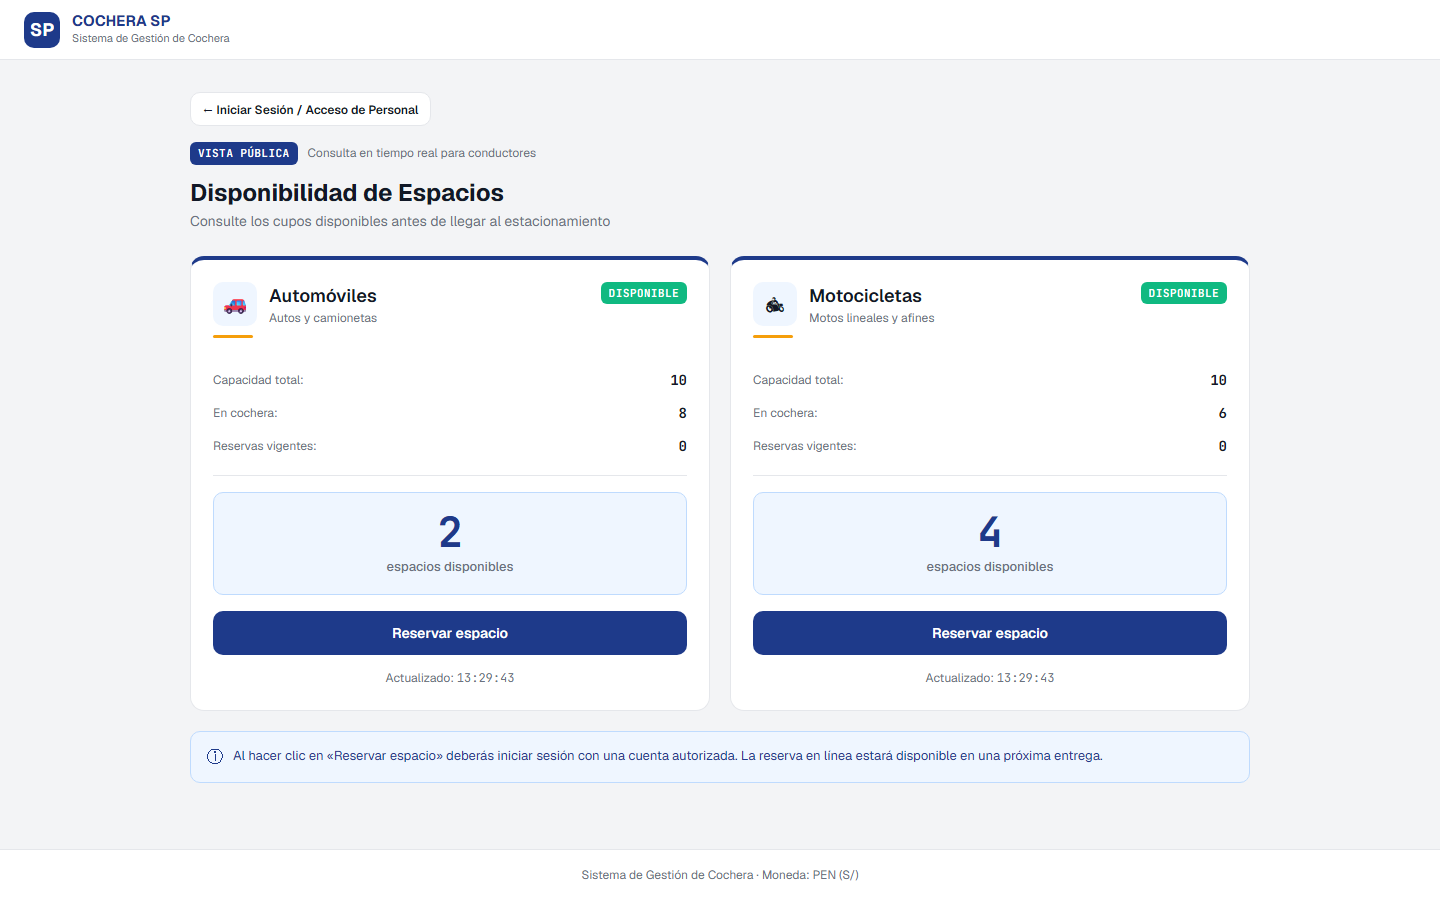
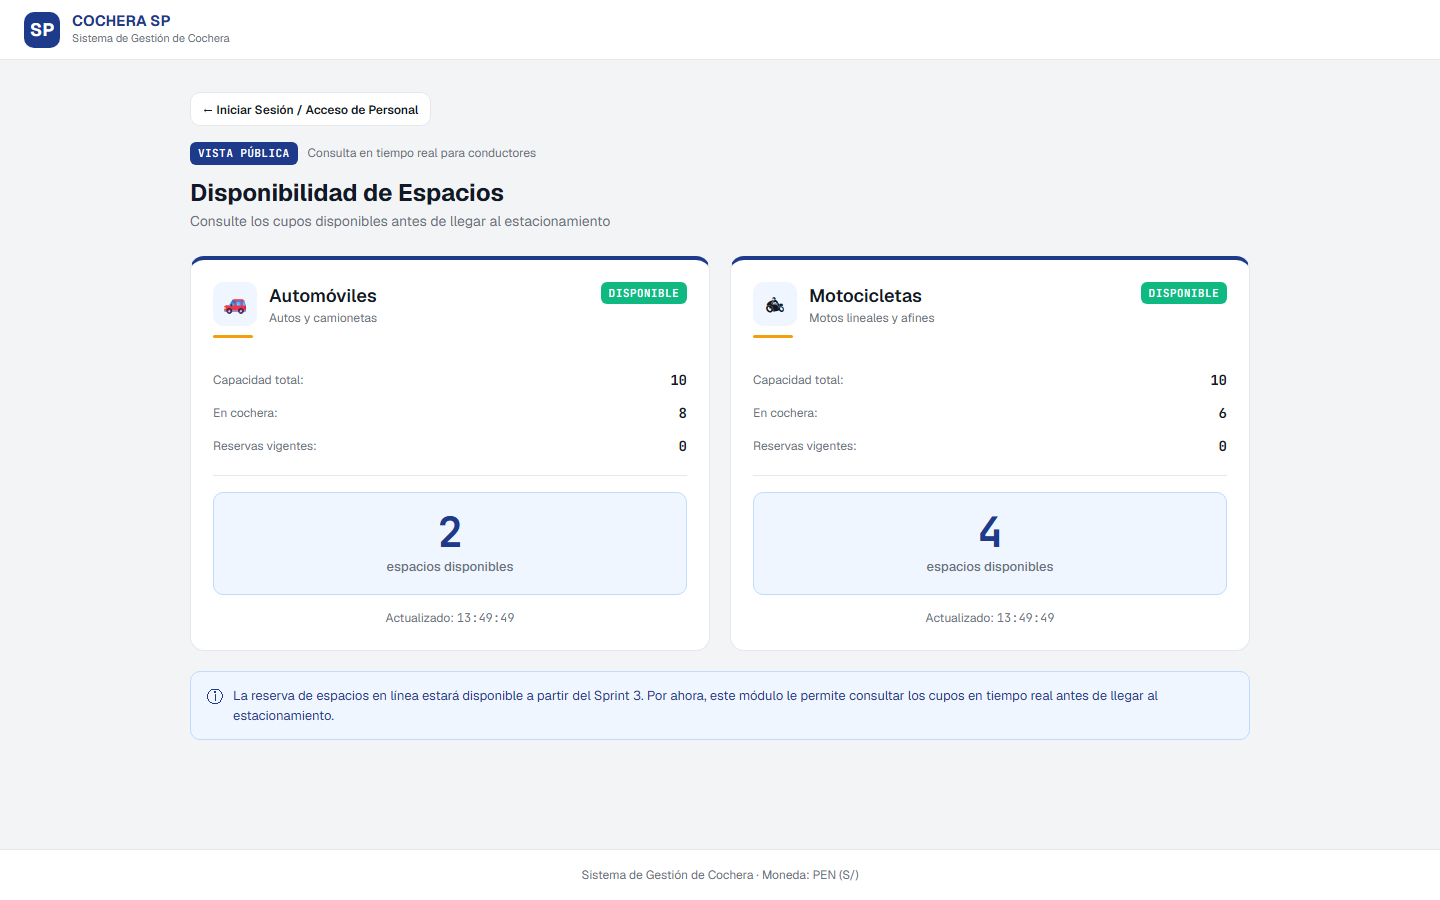
feat(disponibilidad): retirar botones de reservar espacio para entrega en Sprint 3

Changed region(s): [[0.125, 0.6533, 0.875, 0.8711]]

diff --git a/tests/e2e-disponibilidad.js b/tests/e2e-disponibilidad.js
@@ -90,20 +90,20 @@ function report(cond, msg) {
     // ---------- CA-04: sin sobrecarga visual / coherencia de estado ----------
     console.log('\n[CA-04/CA-05] Estado normal y estado critico');
     const badgeAutos = (await page.locator('#badge-estado-autos').textContent()).trim();
-    const habilitado = await page.locator('#btn-reservar-autos').isEnabled();
+    const btnReservarExiste = await page.locator('#btn-reservar-autos').count() > 0;
     if (apiData.autos.disponibles > 0) {
       report(/DISPONIBLE/i.test(badgeAutos), `Con cupos libres el badge dice "${badgeAutos}"`);
-      report(habilitado, 'Con cupos libres el boton Reservar esta habilitado');
+      report(!btnReservarExiste, 'Boton Reservar espacio retirado para Sprint 3');
       report(!(await page.locator('#card-disponibilidad-autos').evaluate((el) => el.classList.contains('aforo-lleno'))),
         'La tarjeta no esta en estado critico');
     }
     await page.screenshot({ path: path.join(EVID, '01_vista_publica_disponibilidad.png'), fullPage: true });
 
-    // ---------- CA-06: clic en Reservar SIN sesion -> Login ----------
-    await page.locator('#btn-reservar-autos').click();
+    // ---------- CA-06: navegacion al Login desde la vista publica ----------
+    await page.locator('#btn-volver-disponibilidad').click();
     await page.waitForTimeout(700);
     report(await page.locator('#view-login').evaluate((el) => el.classList.contains('active')),
-      'Sin sesion, "Reservar espacio" redirige a la pantalla de Login');
+      'Boton "Iniciar Sesión / Acceso de Personal" redirige a la pantalla de Login');
     await page.screenshot({ path: path.join(EVID, '02_redireccion_login_sin_sesion.png'), fullPage: true });
 
     // ---------- CA-05: aforo lleno ----------
@@ -115,12 +115,12 @@ function report(cond, msg) {
     const cuposLleno = await leer('disp-cupos-autos');
     const badgeLleno = (await page.locator('#badge-estado-autos').textContent()).trim();
     const claseLleno = await page.locator('#card-disponibilidad-autos').evaluate((el) => el.classList.contains('aforo-lleno'));
-    const btnBloqueado = await page.locator('#btn-reservar-autos').isDisabled();
+    const btnReservarLleno = await page.locator('#btn-reservar-autos').count() > 0;
     const colorBorde = await page.locator('#card-disponibilidad-autos').evaluate((el) => getComputedStyle(el).borderColor);
     report(cuposLleno === '0', `Con la cochera llena los cupos quedan en 0 (${cuposLleno})`);
     report(/Aforo lleno/i.test(badgeLleno), `El badge cambia a "Aforo lleno" ("${badgeLleno}")`);
     report(claseLleno, 'La tarjeta entra en clase visual de estado critico (aforo-lleno)');
-    report(btnBloqueado, 'El boton "Reservar espacio" queda deshabilitado');
+    report(!btnReservarLleno, 'Boton Reservar espacio no presente en estado aforo lleno');
     report(/rgb\(239,\s*68,\s*68\)|#ef4444/i.test(colorBorde) || colorBorde !== 'rgb(229, 231, 235)',
       `El borde usa color de alerta (${colorBorde})`);
     await page.screenshot({ path: path.join(EVID, '03_estado_aforo_lleno.png'), fullPage: true });
@@ -136,12 +136,12 @@ function report(cond, msg) {
     const horaDespues = await leer('disp-actualizado-autos');
     report(horaAntes !== horaDespues, `La disponibilidad se refresca sola (${horaAntes} -> ${horaDespues})`);
 
-    // ---------- CA-06: clic en Reservar CON sesion ----------
-    console.log('\n[CA-06b] Clic en "Reservar" con sesion iniciada');
+    // ---------- CA-06b: navegacion desde dashboard con sesion ----------
+    console.log('\n[CA-06b] Navegacion con sesion iniciada');
     await page.locator('#btn-volver-disponibilidad').click();
     await page.waitForTimeout(900);
     report(await page.locator('#view-login').evaluate((el) => el.classList.contains('active')),
-      'El boton "Volver" lleva al Login cuando no hay sesion');
+      'El boton "Volver" lleva al Login');
     await page.locator('#login-usuario').fill('admin');
     await page.locator('#login-password').fill('123456');
     await page.locator('#btn-login-submit').click();
@@ -149,16 +149,8 @@ function report(cond, msg) {
     report(await page.locator('#view-dashboard').evaluate((el) => el.classList.contains('active')), 'Login de DUEÑO correcto');
     await page.goto(BASE_URL + '/#disponibilidad', { waitUntil: 'networkidle' });
     await page.waitForTimeout(1500);
-    const activaAntes = await page.locator('#view-disponibilidad').evaluate((el) => el.classList.contains('active'));
-    const toastsAntes = await page.locator('#toast-container .toast').count();
-    await page.locator('#btn-reservar-autos').click();
-    await page.waitForTimeout(900);
-    const activaDespues = await page.locator('#view-disponibilidad').evaluate((el) => el.classList.contains('active'));
-    const toastsDespues = await page.locator('#toast-container .toast').count();
-    const algunaVistaNueva = await page.evaluate(() =>
-      Array.from(document.querySelectorAll('.view-section.active')).map((s) => s.id));
-    report(!(activaAntes && activaDespues && toastsDespues === toastsAntes),
-      `Con sesion, "Reservar" da alguna respuesta (vistas activas: ${JSON.stringify(algunaVistaNueva)}, toasts nuevos: ${toastsDespues - toastsAntes})`);
+    const activaDisponibilidad = await page.locator('#view-disponibilidad').evaluate((el) => el.classList.contains('active'));
+    report(activaDisponibilidad, 'Vista de disponibilidad accesible desde sesion autenticada');
     await page.screenshot({ path: path.join(EVID, '04_reservar_con_sesion.png'), fullPage: true });
 
     // ---------- responsive (anonimo, como lo ve un conductor) ----------

diff --git a/public/index.html b/public/index.html
@@ -1058,10 +1058,6 @@
             <span class="cupos-texto" id="disp-texto-autos">espacios disponibles</span>
           </div>
 
-          <button type="button" class="btn btn-primary btn-block btn-reservar" id="btn-reservar-autos" data-tipo="autos">
-            Reservar espacio
-          </button>
-
           <div class="disponibilidad-card-footer">
             <span class="caption">Actualizado: <span class="mono" id="disp-actualizado-autos">--:--:--</span></span>
           </div>
@@ -1102,10 +1098,6 @@
             <span class="cupos-texto" id="disp-texto-motos">espacios disponibles</span>
           </div>
 
-          <button type="button" class="btn btn-primary btn-block btn-reservar" id="btn-reservar-motos" data-tipo="motos">
-            Reservar espacio
-          </button>
-
           <div class="disponibilidad-card-footer">
             <span class="caption">Actualizado: <span class="mono" id="disp-actualizado-motos">--:--:--</span></span>
           </div>
@@ -1114,7 +1106,7 @@
 
       <div class="disponibilidad-aviso-reserva">
         <span class="aviso-icono" aria-hidden="true">ⓘ</span>
-        <span>Al hacer clic en «Reservar espacio» deberás iniciar sesión con una cuenta autorizada. La reserva en línea estará disponible en una próxima entrega.</span>
+        <span>La reserva de espacios en línea estará disponible a partir del Sprint 3. Por ahora, este módulo le permite consultar los cupos en tiempo real antes de llegar al estacionamiento.</span>
       </div>
     </section>
 
